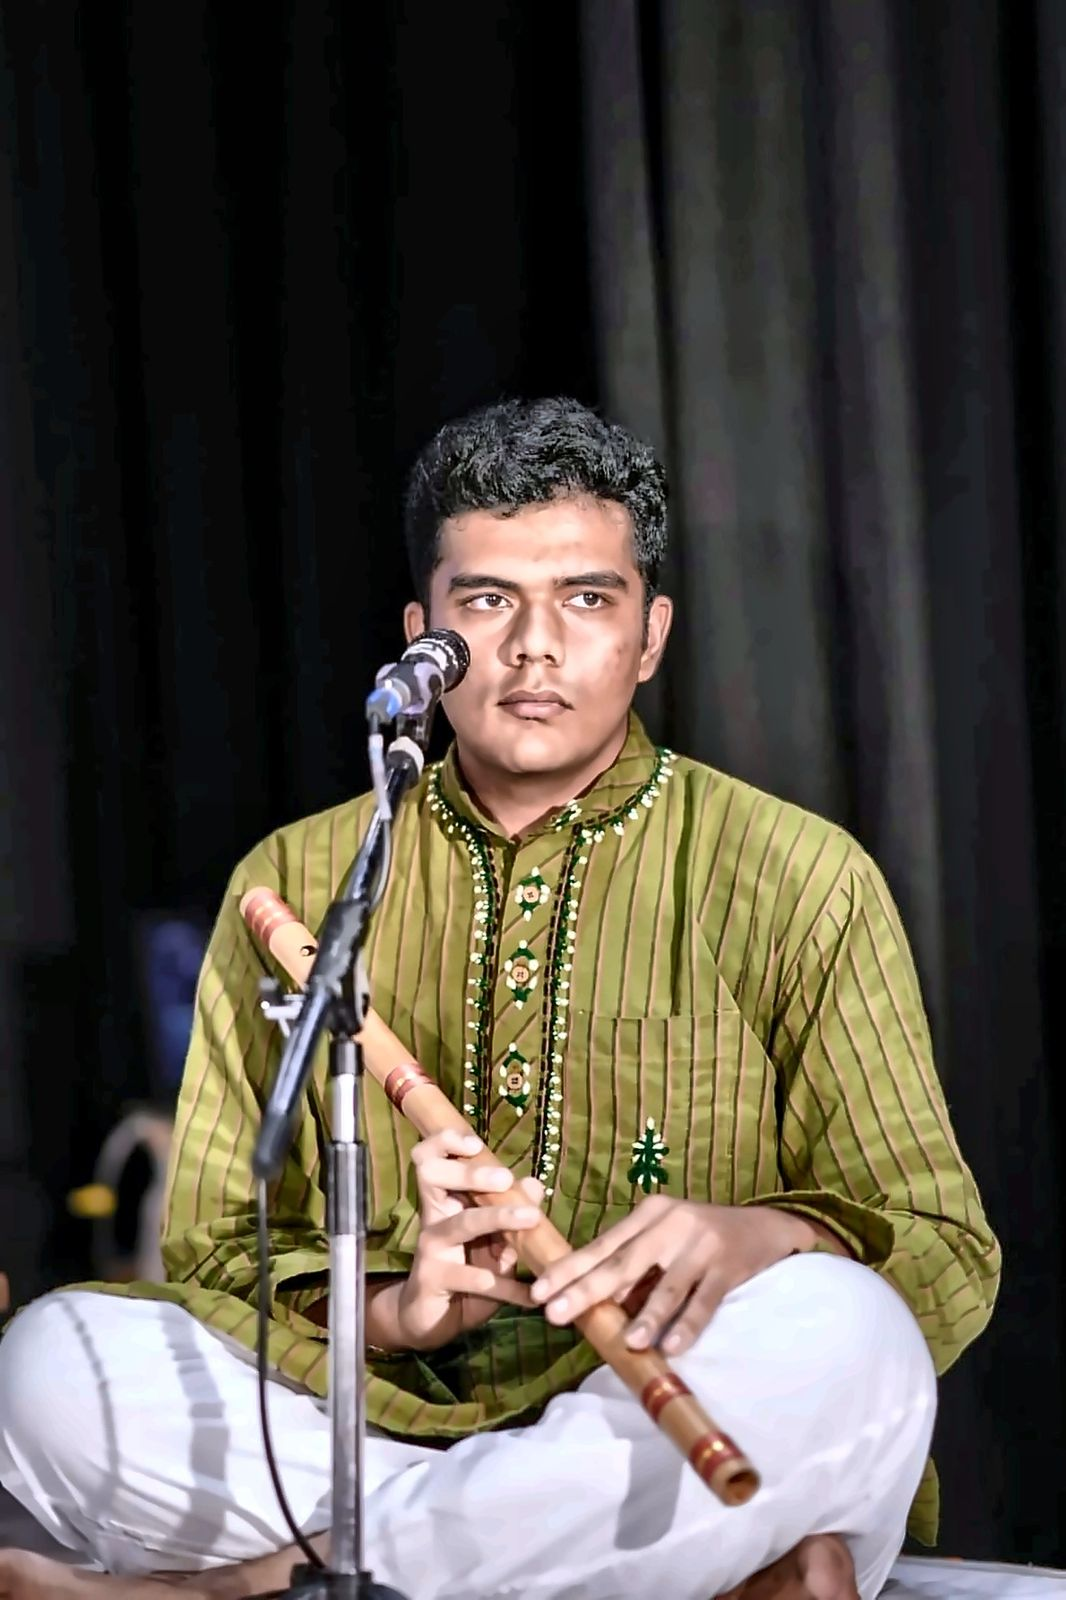
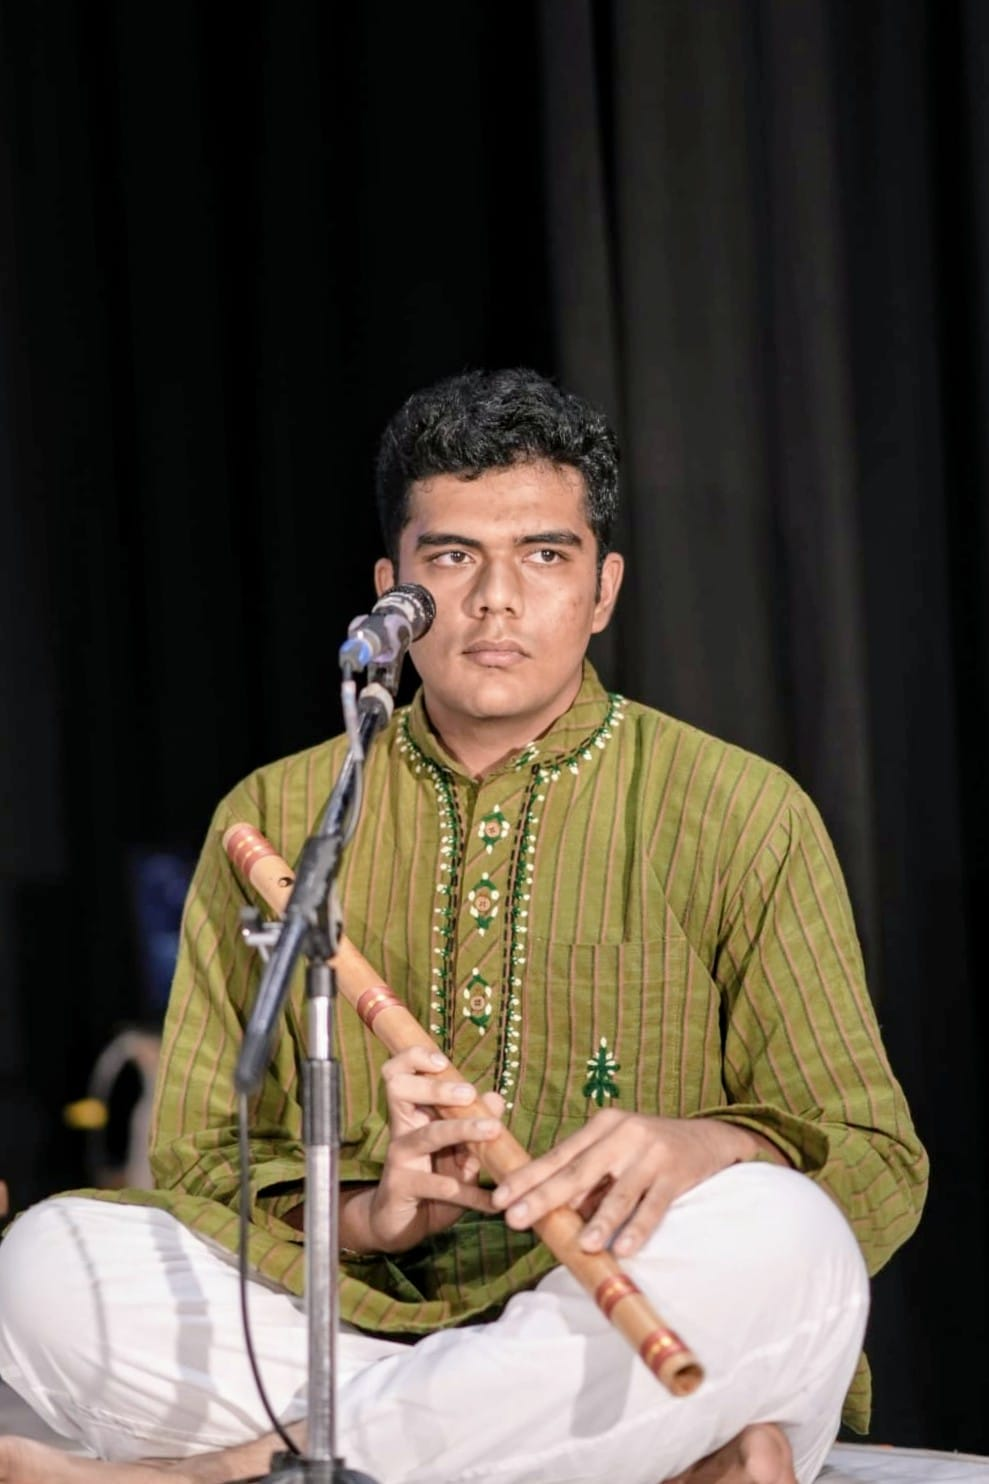
Update homepage portrait

diff --git a/index.html b/index.html
@@ -43,7 +43,7 @@
       </div>
     </div>
     <div class="hero-photo">
-      <div class="arch"><img src="assets/img/2.jpg" alt="Portrait of Samarth Sapre" fetchpriority="high"></div>
+      <div class="arch"><img src="assets/img/10.jpg" alt="Portrait of Samarth Sapre" fetchpriority="high"></div>
       <span class="ring" aria-hidden="true"></span>
     </div>
   </div>
